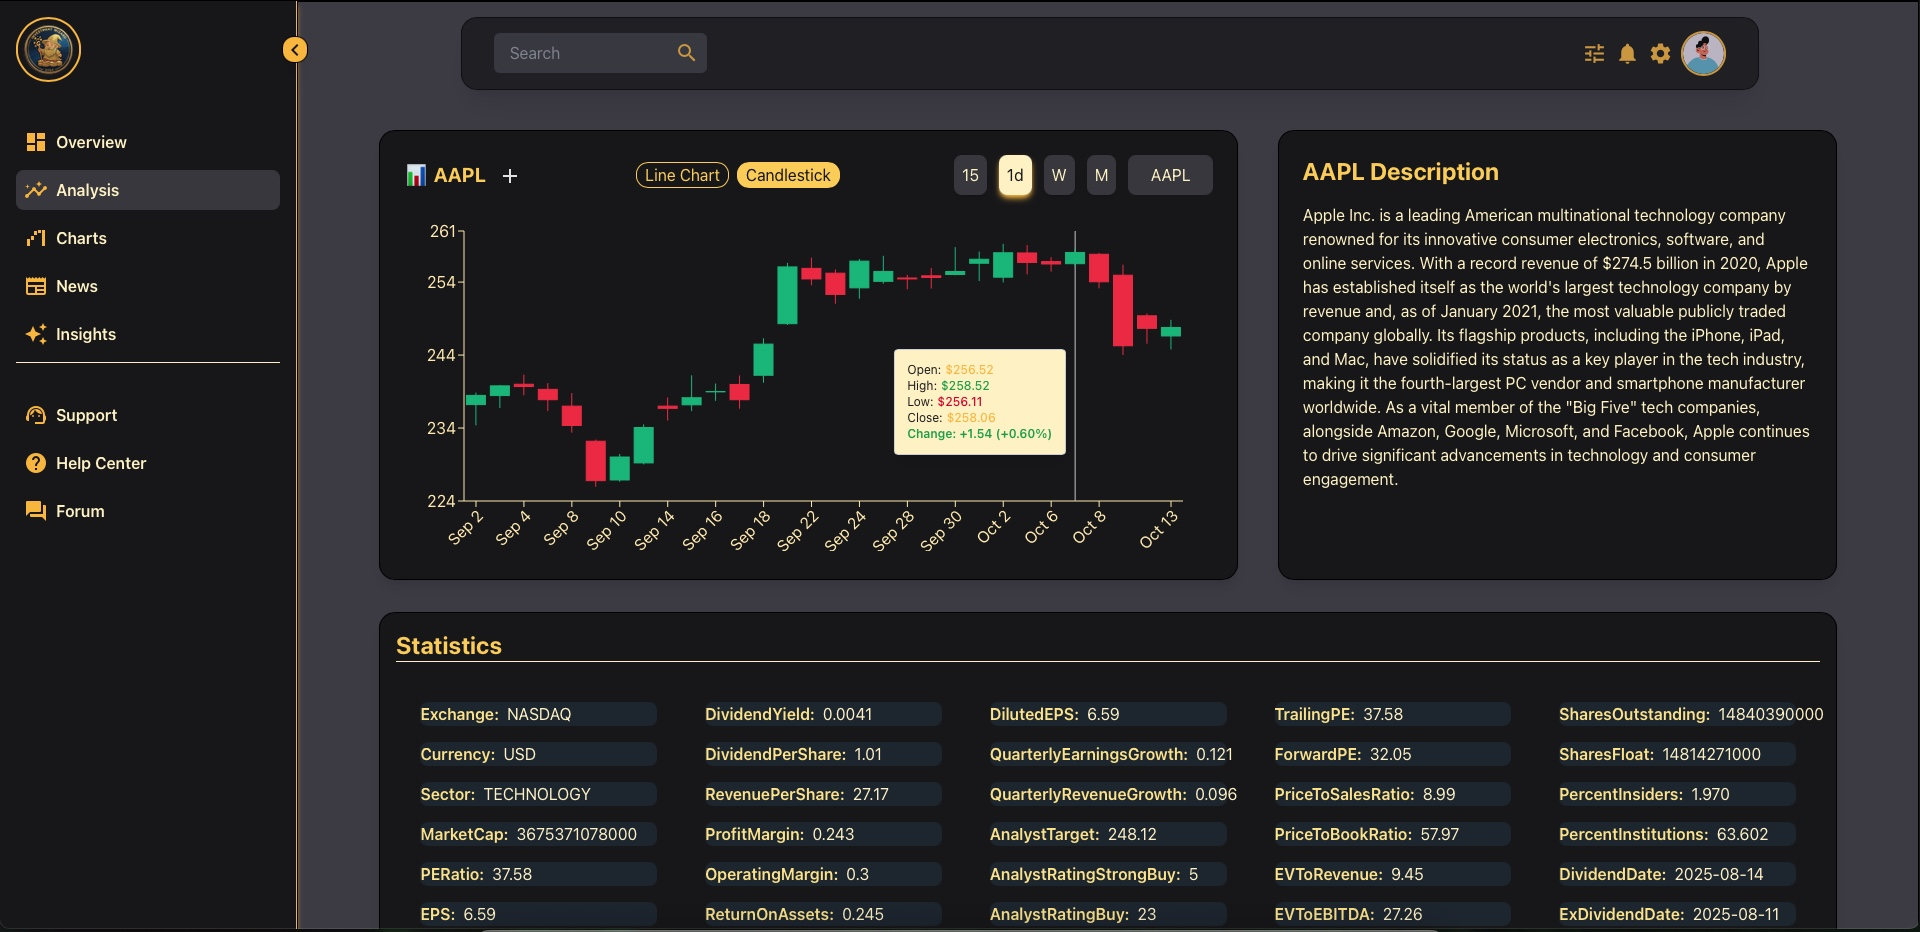
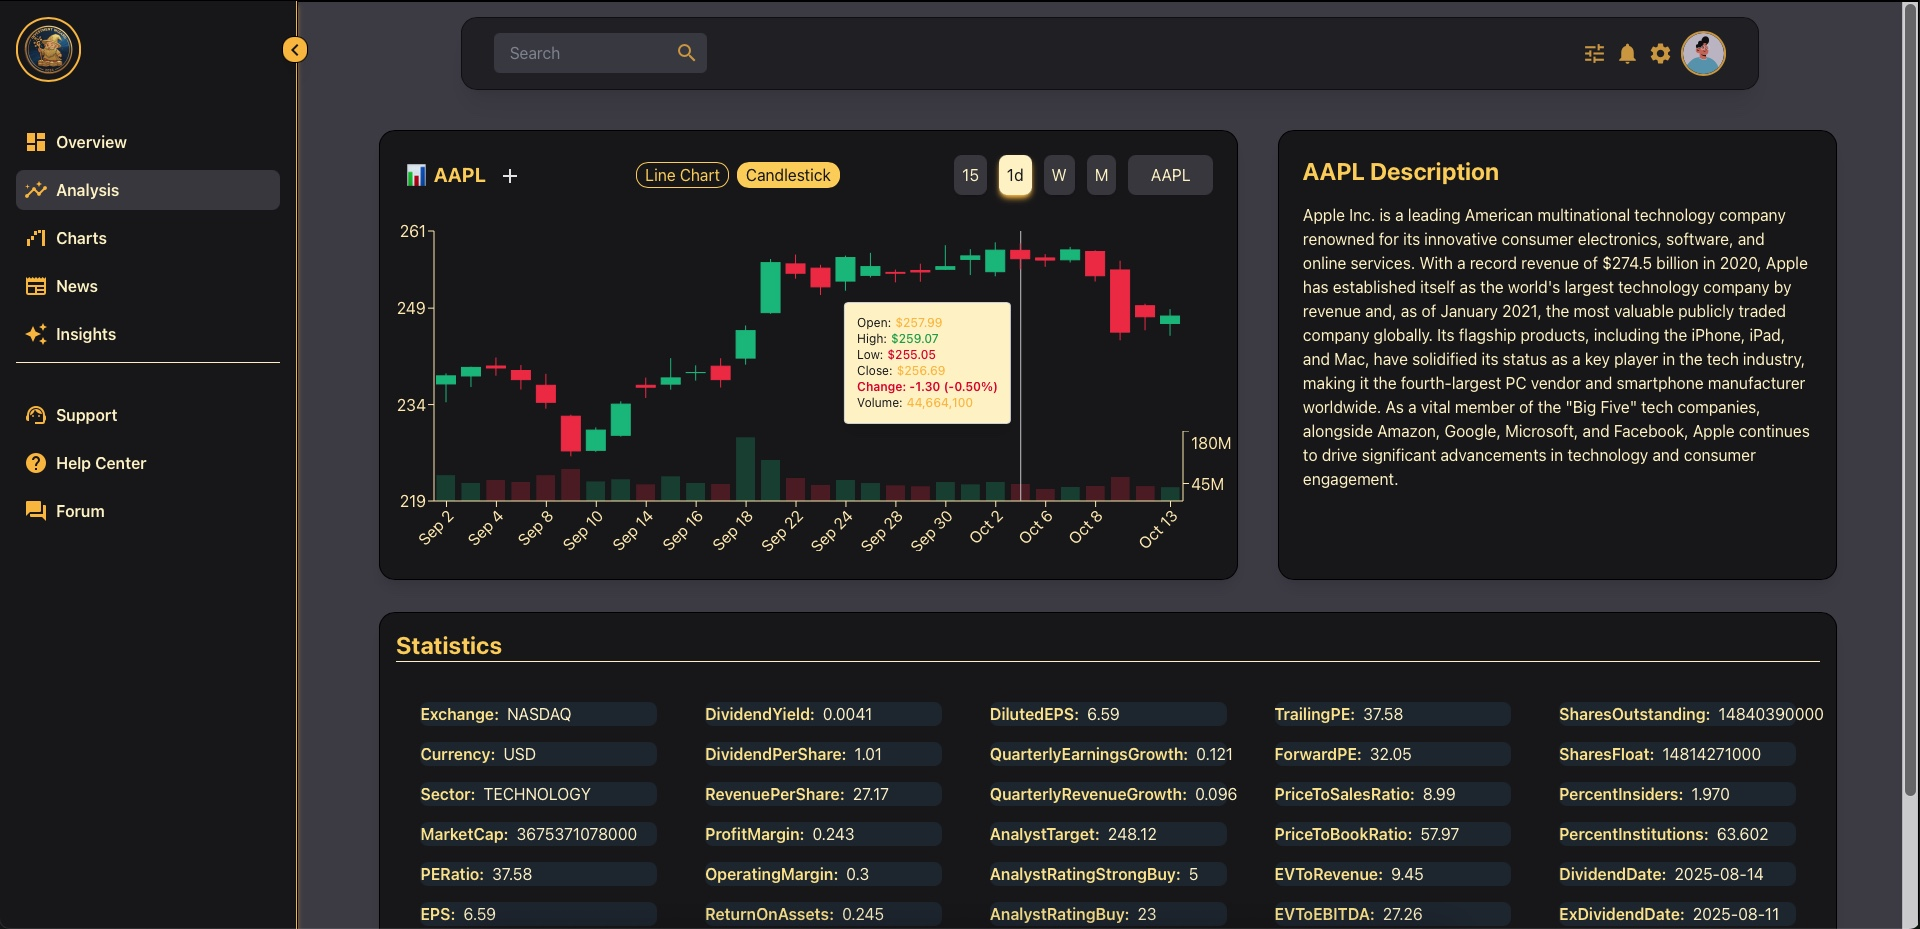
changed readme images | added volume bars

diff --git a/frontend/components/Chart.jsx b/frontend/components/Chart.jsx
@@ -200,25 +200,49 @@ const Chart = ({
         </div>
         <div className="w-[32%] flex gap-3">
           <button
-            className={`px-2 py-2 rounded-lg ${interval === "15min" ? "bg-amber-100" : "bg-zinc-700"} text-amber-100 hover:bg-amber-100 shadow-md ${interval === "15min" ? "text-zinc-900" : "text-amber-100"} hover:text-zinc-900 hover:shadow-md ${interval === "15min" && "shadow-amber-400"} hover:shadow-amber-400`}
+            className={`px-2 py-2 rounded-lg ${
+              interval === "15min" ? "bg-amber-100" : "bg-zinc-700"
+            } text-amber-100 hover:bg-amber-100 shadow-md ${
+              interval === "15min" ? "text-zinc-900" : "text-amber-100"
+            } hover:text-zinc-900 hover:shadow-md ${
+              interval === "15min" && "shadow-amber-400"
+            } hover:shadow-amber-400`}
             onClick={() => handleChangeInterval("15min")}
           >
             15
           </button>
           <button
-            className={`px-2 py-2 rounded-lg ${interval === "1day" ? "bg-amber-100" : "bg-zinc-700"} text-amber-100 hover:bg-amber-100 shadow-md ${interval === "1day" ? "text-zinc-900" : "text-amber-100"} hover:text-zinc-900 hover:shadow-md ${interval === "1day" && "shadow-amber-400"} hover:shadow-amber-400`}
+            className={`px-2 py-2 rounded-lg ${
+              interval === "1day" ? "bg-amber-100" : "bg-zinc-700"
+            } text-amber-100 hover:bg-amber-100 shadow-md ${
+              interval === "1day" ? "text-zinc-900" : "text-amber-100"
+            } hover:text-zinc-900 hover:shadow-md ${
+              interval === "1day" && "shadow-amber-400"
+            } hover:shadow-amber-400`}
             onClick={() => handleChangeInterval("1day")}
           >
             1d
           </button>
           <button
-            className={`px-2 py-2 rounded-lg ${interval === "1week" ? "bg-amber-100" : "bg-zinc-700"} text-amber-100 hover:bg-amber-100 shadow-md ${interval === "1week" ? "text-zinc-900" : "text-amber-100"} hover:text-zinc-900 hover:shadow-md ${interval === "1week" && "shadow-amber-400"} hover:shadow-amber-400`}
+            className={`px-2 py-2 rounded-lg ${
+              interval === "1week" ? "bg-amber-100" : "bg-zinc-700"
+            } text-amber-100 hover:bg-amber-100 shadow-md ${
+              interval === "1week" ? "text-zinc-900" : "text-amber-100"
+            } hover:text-zinc-900 hover:shadow-md ${
+              interval === "1week" && "shadow-amber-400"
+            } hover:shadow-amber-400`}
             onClick={() => handleChangeInterval("1week")}
           >
             W
           </button>
           <button
-            className={`px-2 py-2 rounded-lg ${interval === "1month" ? "bg-amber-100" : "bg-zinc-700"} text-amber-100 hover:bg-amber-100 shadow-md ${interval === "1month" ? "text-zinc-900" : "text-amber-100"} hover:text-zinc-900 hover:shadow-md ${interval === "1month" && "shadow-amber-400"} hover:shadow-amber-400`}
+            className={`px-2 py-2 rounded-lg ${
+              interval === "1month" ? "bg-amber-100" : "bg-zinc-700"
+            } text-amber-100 hover:bg-amber-100 shadow-md ${
+              interval === "1month" ? "text-zinc-900" : "text-amber-100"
+            } hover:text-zinc-900 hover:shadow-md ${
+              interval === "1month" && "shadow-amber-400"
+            } hover:shadow-amber-400`}
             onClick={() => handleChangeInterval("1month")}
           >
             M
@@ -232,83 +256,136 @@ const Chart = ({
         </div>
       </div>
       {chartType === "candlestick" ? (
-        <ResponsiveContainer width="100%" height={340}>
-          <ComposedChart
-            data={prepareChartData(timeSeriesData)}
-            margin={{ top: 20, right: 30, left: 0, bottom: 5 }}
-          >
-            <XAxis
-              dataKey="date"
-              stroke="#FFECB3"
-              tick={{ fill: "#FFECB3" }}
-              tickFormatter={formatXAxisDate}
-              interval="preserveStartEnd"
-              angle={-45}
-              textAnchor="end"
-              height={45}
-            />
-            <YAxis
-              domain={[
-                (dataMin) => Math.floor(dataMin * 0.995),
-                (dataMax) => Math.ceil(dataMax * 1.005),
-              ]}
-              stroke="#FFECB3"
-              tick={{ fill: "#FFECB3" }}
-            />
-            <Tooltip
-              cursor={{ fill: "rgba(200, 200, 200, 0.2)" }}
-              content={({ active, payload }) => {
-                if (active && payload && payload.length) {
-                  const data = payload[0].payload;
-                  const change = data.close - data.open;
-                  const changePercent = ((change / data.open) * 100).toFixed(2);
-                  return (
-                    <div className="bg-amber-100 p-3 border border-gray-300 rounded shadow-lg">
-                      <p className="text-sm font-semibold">{data.datetime}</p>
-                      <p className="text-xs flex gap-1">
-                        <p className="text-zinc-900">Open: </p>
-                        <span className="font-medium text-amber-400">
-                          ${data.open?.toFixed(2)}
-                        </span>
-                      </p>
-                      <p className="text-xs flex gap-1">
-                        <p className="text-zinc-900">High:</p>
-                        <span className="font-medium text-green-600">
-                          ${data.high?.toFixed(2)}
-                        </span>
-                      </p>
-                      <p className="text-xs flex gap-1">
-                        <p className="text-zinc-900">Low: </p>
-                        <span className="font-medium text-red-600">
-                          ${data.low?.toFixed(2)}
-                        </span>
-                      </p>
-                      <p className="text-xs flex gap-1">
-                        <p className="text-zinc-900">Close: </p>
-                        <span className="font-medium text-amber-400">
-                          ${data.close?.toFixed(2)}
-                        </span>
-                      </p>
-                      <p
-                        className={`text-xs font-semibold ${
-                          change >= 0 ? "text-green-600" : "text-red-600"
-                        }`}
-                      >
-                        Change: {change >= 0 ? "+" : ""}
-                        {change.toFixed(2)} ({change >= 0 ? "+" : ""}
-                        {changePercent}%)
-                      </p>
-                    </div>
-                  );
-                }
-                return null;
-              }}
-            />
-            <Bar dataKey="highLow" shape={<Candlestick />} />
-          </ComposedChart>
-        </ResponsiveContainer>
-      ) : // ...existing line/area chart code...
-      hasData ? (
+        <div className="ml-[-30px]">
+          <ResponsiveContainer width="100%" height={340}>
+            <ComposedChart
+              data={prepareChartData(timeSeriesData)}
+              margin={{ top: 20, right: 30, left: 0, bottom: 5 }}
+              className="z-10"
+            >
+              <XAxis
+                dataKey="date"
+                stroke="#FFECB3"
+                tick={{ fill: "#FFECB3" }}
+                tickFormatter={formatXAxisDate}
+                interval="preserveStartEnd"
+                angle={-45}
+                textAnchor="end"
+                height={45}
+              />
+              <YAxis
+                domain={[
+                  (dataMin) => Math.floor(dataMin * 0.995 - 5),
+                  (dataMax) => Math.ceil(dataMax * 1.005),
+                ]}
+                stroke="#FFECB3"
+                tick={{ fill: "#FFECB3" }}
+              />
+              <Tooltip
+                cursor={{ fill: "rgba(200, 200, 200, 0.2)" }}
+                content={({ active, payload }) => {
+                  if (active && payload && payload.length) {
+                    const data = payload[0].payload;
+                    const change = data.close - data.open;
+                    const changePercent = ((change / data.open) * 100).toFixed(
+                      2
+                    );
+                    return (
+                      <div className="bg-amber-100 p-3 border border-gray-300 rounded shadow-lg">
+                        <p className="text-sm font-semibold">{data.datetime}</p>
+                        <p className="text-xs flex gap-1">
+                          <p className="text-zinc-900">Open: </p>
+                          <span className="font-medium text-amber-400">
+                            ${data.open?.toFixed(2)}
+                          </span>
+                        </p>
+                        <p className="text-xs flex gap-1">
+                          <p className="text-zinc-900">High:</p>
+                          <span className="font-medium text-green-600">
+                            ${data.high?.toFixed(2)}
+                          </span>
+                        </p>
+                        <p className="text-xs flex gap-1">
+                          <p className="text-zinc-900">Low: </p>
+                          <span className="font-medium text-red-600">
+                            ${data.low?.toFixed(2)}
+                          </span>
+                        </p>
+                        <p className="text-xs flex gap-1">
+                          <p className="text-zinc-900">Close: </p>
+                          <span className="font-medium text-amber-400">
+                            ${data.close?.toFixed(2)}
+                          </span>
+                        </p>
+                        <p
+                          className={`text-xs font-semibold ${
+                            change >= 0 ? "text-green-600" : "text-red-600"
+                          }`}
+                        >
+                          Change: {change >= 0 ? "+" : ""}
+                          {change.toFixed(2)} ({change >= 0 ? "+" : ""}
+                          {changePercent}%)
+                        </p>
+                        <p className="text-xs flex gap-1">
+                          <p className="text-zinc-900">Volume: </p>
+                          <span className="font-medium text-amber-400">
+                            {data.volume?.toLocaleString()}
+                          </span>
+                        </p>
+                      </div>
+                    );
+                  }
+                  return null;
+                }}
+              />
+              <Bar dataKey="highLow" shape={<Candlestick />} />
+            </ComposedChart>
+          </ResponsiveContainer>
+          <div className="relative top-[-120px] right-[-60px]">
+            <ResponsiveContainer width="100%" height={75}>
+              <ComposedChart
+                data={prepareChartData(timeSeriesData)}
+                margin={{ top: 0, right: 30, left: 0, bottom: 5 }}
+                
+              >
+                <YAxis
+                  orientation="right"
+                  stroke="#FFECB3"
+                  tick={{ fill: "#FFECB3" }}
+                  tickFormatter={(value) => `${(value / 1000000).toFixed(0)}M`}
+                />
+                <Tooltip
+                  cursor={{ fill: "rgba(200, 200, 200, 0.2)" }}
+                  content={({ active, payload }) => {
+                    if (active && payload && payload.length) {
+                      const data = payload[0].payload;
+                      return (
+                        <div className="bg-white p-2 border border-gray-300 rounded shadow-lg">
+                          <p className="text-xs">
+                            Volume:{" "}
+                            <span className="font-medium">
+                              {data.volume?.toLocaleString()}
+                            </span>
+                          </p>
+                        </div>
+                      );
+                    }
+                    return null;
+                  }}
+                />
+                <Bar dataKey="volume" className="opacity-50">
+                  {prepareChartData(timeSeriesData).map((entry, index) => (
+                    <Cell
+                      key={`cell-${index}`}
+                      fill={entry.close > entry.open ? "#10b981" : "#ef4444"}
+                    />
+                  ))}
+                </Bar>
+              </ComposedChart>
+            </ResponsiveContainer>
+          </div>
+        </div>
+      ) : hasData ? (
         <Box className="h-[350px] w-full">
           <ChartContainer
             series={series}
